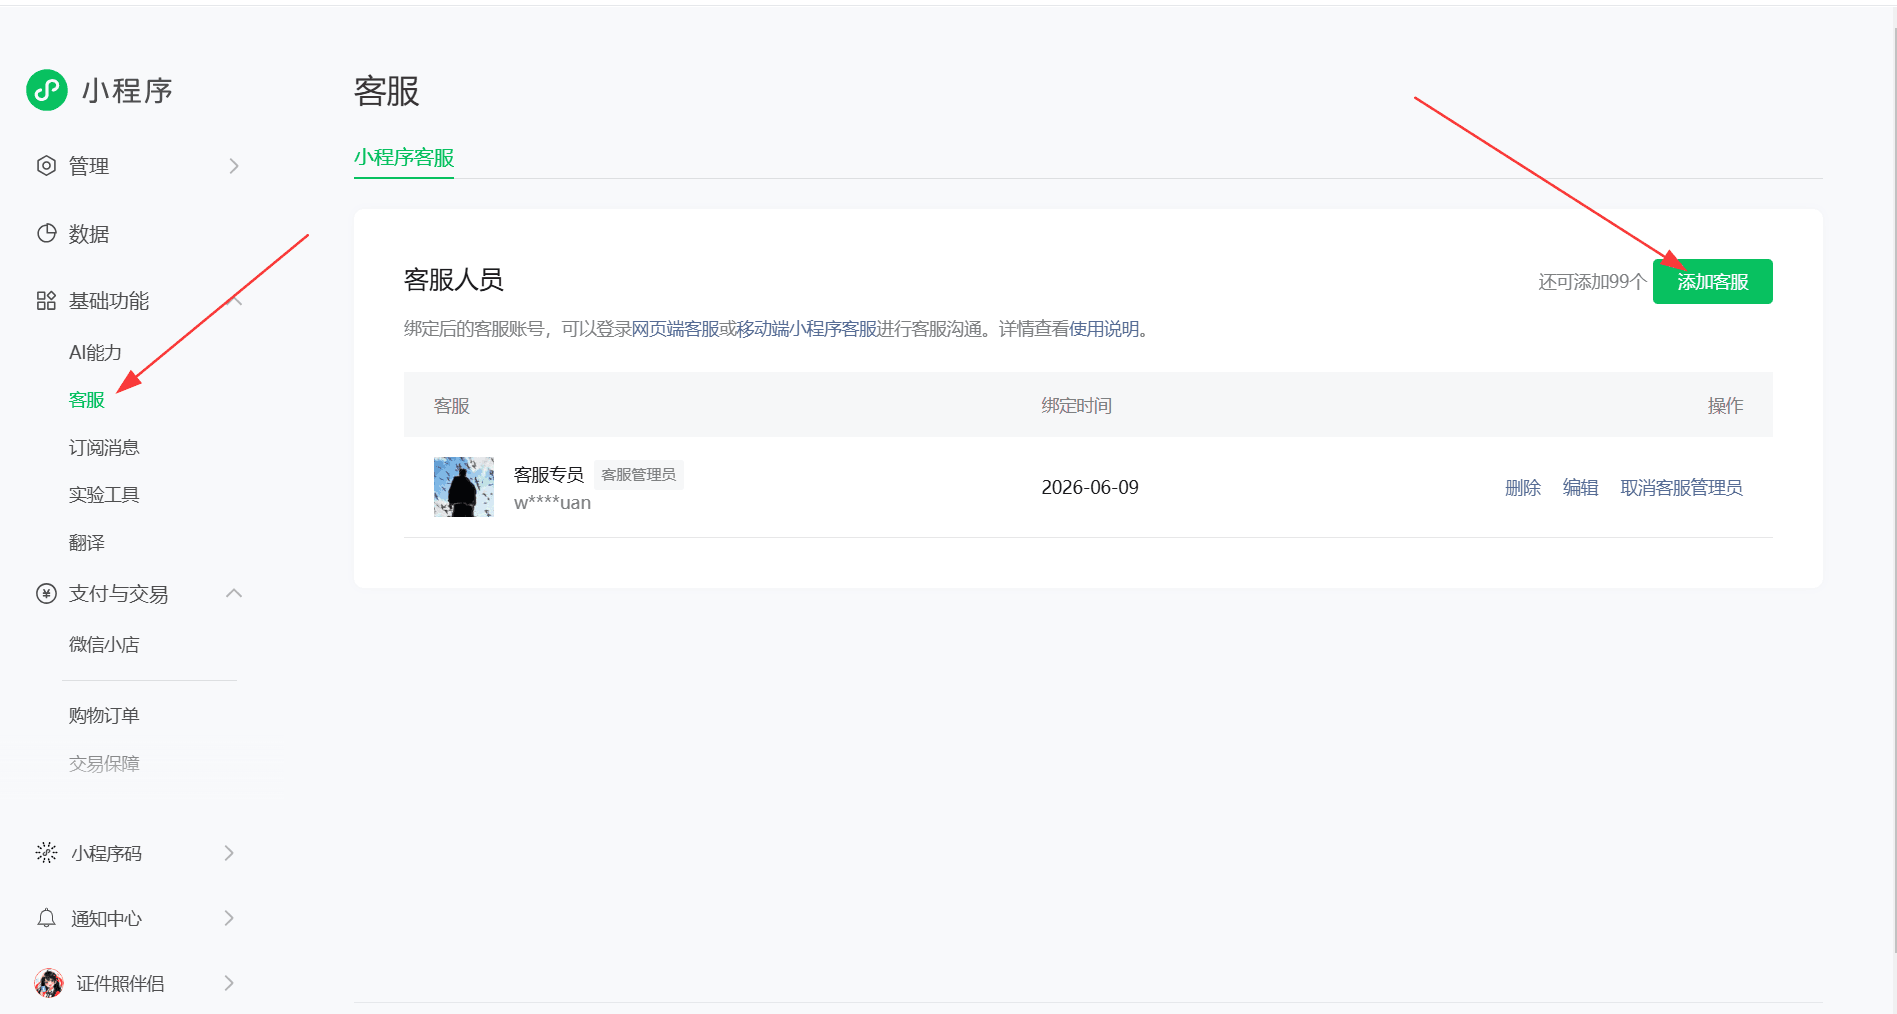
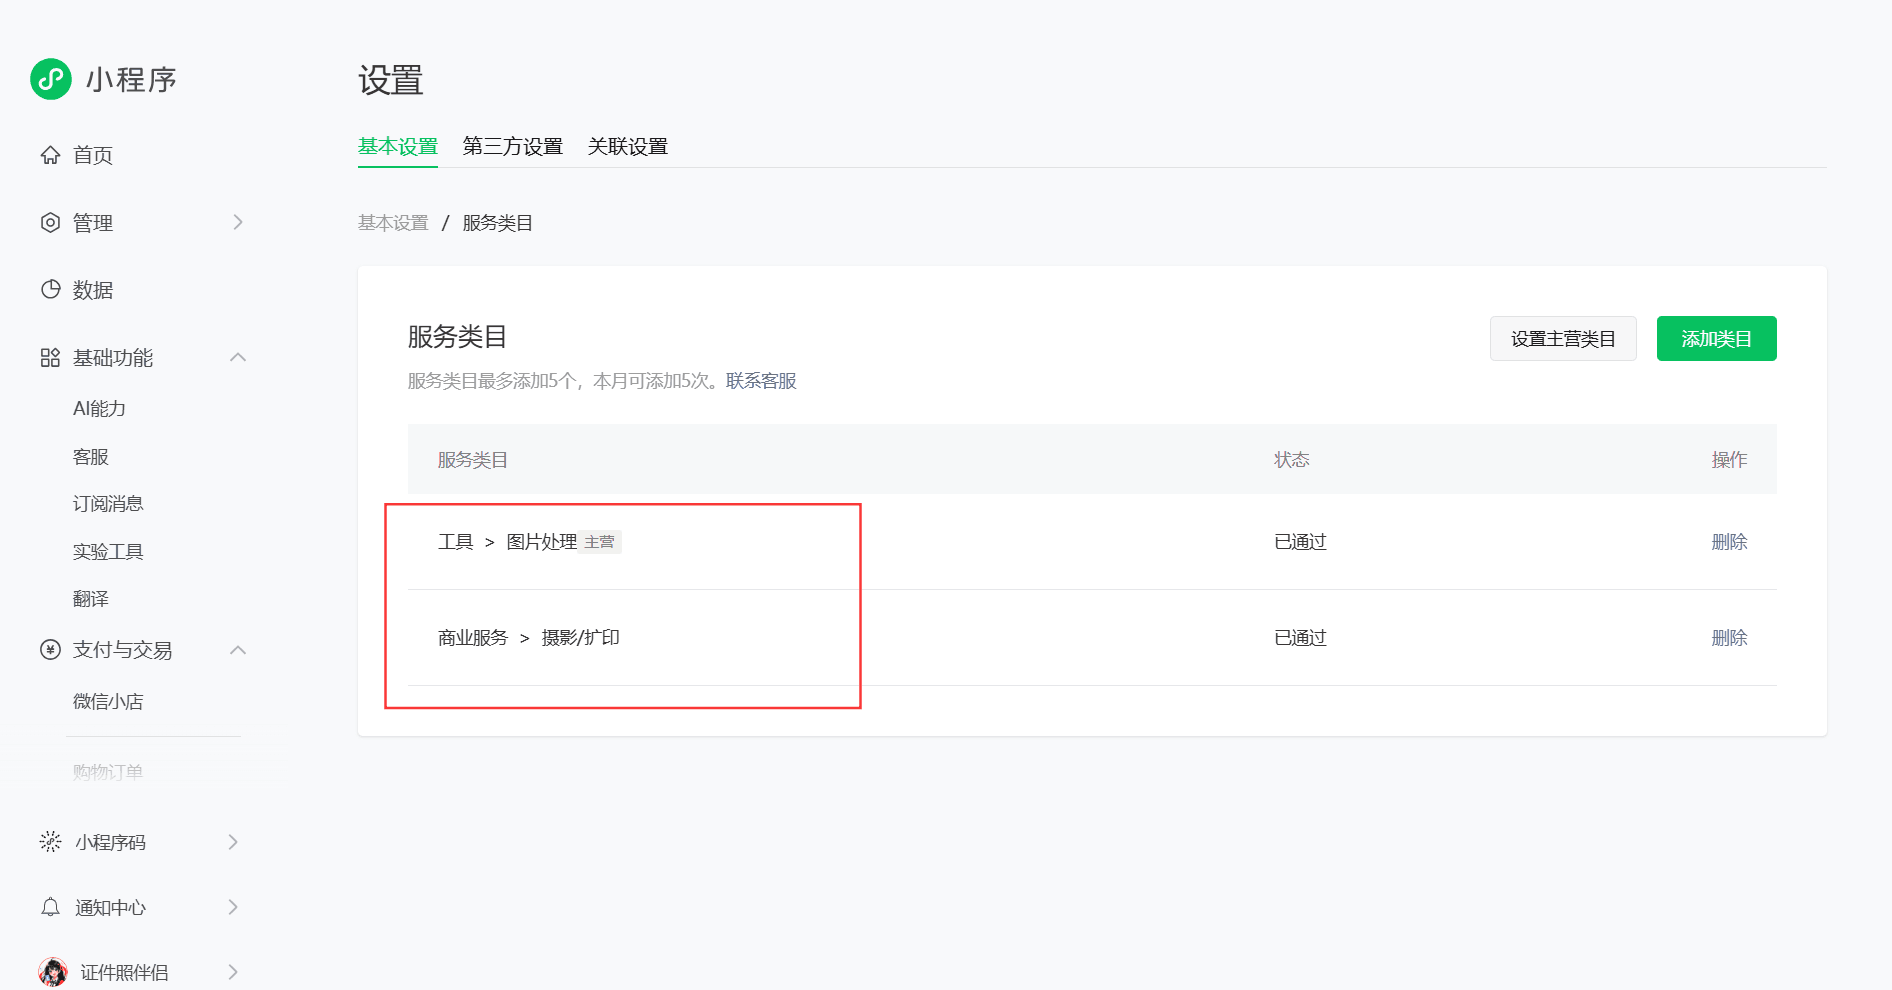
更新项目说明和资源图片

diff --git a/README.md b/README.md
@@ -1,20 +1,15 @@
-# 🔍预览：
-
-<p align="center"><img src="./assets/3.png"></p>
-
 # 📝项目介绍
 
 # <p align="center">证件照伴侣 V2</p>
-<p align="center">让大家久等了，V2版本终于和大家见面了！</p>
+<p align="center">简约蓝白风格</p>
 <p align="center"><img src="./assets/1.png"></p>
 
 
 
 **相关项目**：
+- 小程序前端V2（模板一）：https://github.com/no1yu/photoOneV2
 - 小程序后端V2：https://github.com/no1yu/HivisionIDPhotos-wechat-weappV2
 - 小程序管理员网页后台V2：https://github.com/no1yu/zjzAdminV2
--  HivisionIDPhotos：https://github.com/Zeyi-Lin/HivisionIDPhotos
--  HivisionIDPhotosPro：https://github.com/no1yu/HivisionIDPhotosPro
 
 
 
@@ -22,21 +17,7 @@
 
 # ⭐最近更新
 
-- 2026.10.08：对齐探索处理页文案和示例人物
-  - 探索处理页的输入框标题和占位文案与 photoOneV2 保持一致，移除 photoOneV2 没有的三处底部提示
-  - 首页和规格详情共用官网原图中的示例人物，保留原人物表情和发型，页面布局不变
-  - 人物素材保存为本地 JPG，替换原 PNG，减少主包资源大小
-  - 涉及代码端：仅 photoTwoV2 微信小程序端，photoOneV2 和各后端未改动
-
-- 2026.10.08：修复页面交互和下载信息展示问题
-  - 相机页增加提交锁，避免“使用照片”重复上传、制作和跳转，并在流程结束后释放提交状态
-  - 自定义尺寸页增加提交锁和按钮加载状态，避免重复保存
-  - 个人中心同步公众号开关，关闭已停用的公众号弹窗并恢复底部导航；二维码地址更新后清除旧的加载失败状态
-  - 下载弹窗补齐儿童装说明，避免显示 undefined
-  - 涉及代码端：仅 photoTwoV2 微信小程序端，Java 后端、Python 服务、PHP 管理后台和 photoOneV2 未改动
-
-- 2026.10.06：增加虚拟支付，调整图片编辑页布局，修复下载成功后的弹窗消失bug
-- 2026.09.01：V2版本正式发布
+- 2026.10.09：诞生
 
 
 
@@ -56,19 +37,19 @@
 
 ## 隐私协议
 
-<img src="./assets/4.png">
+<img src="./assets/3.png">
 
 
 
 ## 客服配置
 
-<img src="./assets/5.png">
+<img src="./assets/4.png">
 
 
 
 ## 服务类目
 
-<img src="./assets/6.png">
+<img src="./assets/5.png">
 
 
 
